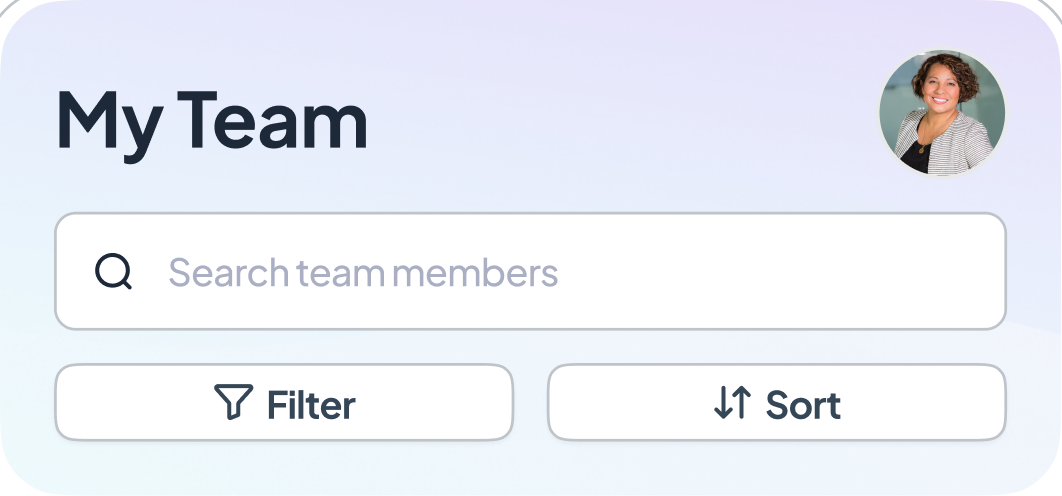
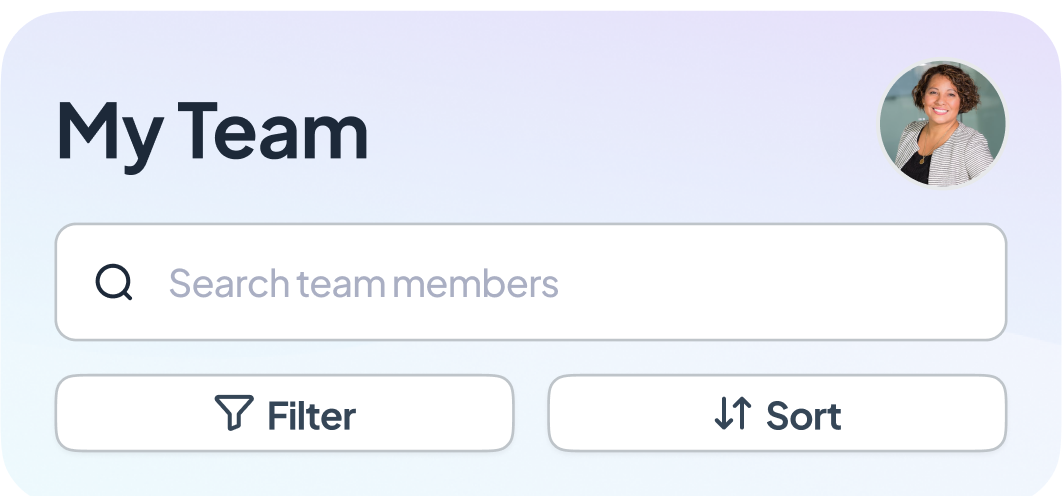
Refine advisor and team interactions

diff --git a/src/frames/Frame4Advisor.tsx b/src/frames/Frame4Advisor.tsx
@@ -9,7 +9,7 @@ import proAdvisor4 from "../assets/exports/pro-advisor-4.png";
 import bubbleImg from "../assets/exports/pro-advisor-2-bubble.png";
 import avatarImg from "../assets/exports/pro-advisor-2-avatar.png";
 
-type Beat = "container" | "avatar" | "bubble" | "thinking" | "response";
+type Beat = "container" | "avatar" | "userTyping" | "bubble" | "thinking" | "response";
 
 const WELCOME_TOP = 133;
 const WELCOME_HEIGHT = 202;
@@ -41,7 +41,8 @@ const SCROLL_UP = 205;
 // moves if this is retuned.
 const READ_WELCOME_MS = 4500;
 const BEATS = {
-  avatar: READ_WELCOME_MS,
+  avatar: READ_WELCOME_MS - 2000,
+  userTyping: READ_WELCOME_MS - 1500,
   bubble: READ_WELCOME_MS + 500,
   thinking: READ_WELCOME_MS + 1800,
   response: READ_WELCOME_MS + 2800,
@@ -91,9 +92,9 @@ const exitWith = (order: number) => ({
   delay: order * stagger.exitCascade,
 });
 
-// Frame 4 - the 7-beat sequence: container reveal -> avatar entrance ->
-// input field reveal (paired with the container) -> avatar entrance ->
-// conversation begins (typewriter via clip-path, no real text needed) ->
+// Frame 4 - the conversation sequence: container + input reveal -> early
+// avatar entrance -> user typing indicator -> conversation begins (typewriter
+// via clip-path, no real text needed) ->
 // AI thinking bubble -> response card (node 16182:4572,
 // "Pro Advisor 3") renders in where the thinking bubble was, in the gap
 // between the conversation and the input field. This is the stage-only
@@ -105,6 +106,7 @@ export function Frame4AdvisorStage({ exiting }: StageProps) {
   useEffect(() => {
     const timers = [
       setTimeout(() => setBeat("avatar"), BEATS.avatar),
+      setTimeout(() => setBeat("userTyping"), BEATS.userTyping),
       setTimeout(() => setBeat("bubble"), BEATS.bubble),
       setTimeout(() => setBeat("thinking"), BEATS.thinking),
       setTimeout(() => setBeat("response"), BEATS.response),
@@ -112,10 +114,11 @@ export function Frame4AdvisorStage({ exiting }: StageProps) {
     return () => timers.forEach(clearTimeout);
   }, []);
 
-  const order: Beat[] = ["container", "avatar", "bubble", "thinking", "response"];
+  const order: Beat[] = ["container", "avatar", "userTyping", "bubble", "thinking", "response"];
   const beatIndex = order.indexOf(beat);
   const avatarIn = beatIndex >= 1;
-  const bubbleIn = beatIndex >= 2;
+  const userTyping = beat === "userTyping";
+  const bubbleIn = beatIndex >= 3;
   const thinking = beat === "thinking";
   const responded = beat === "response";
   // Once the AI actually has something to say, the live conversation shifts
@@ -169,6 +172,19 @@ export function Frame4AdvisorStage({ exiting }: StageProps) {
           }}
         />
 
+        {/* The user arrives before their message. Reuse the same three-dot
+            loop as the AI thinking state, right-aligned beside the avatar,
+            until the full prompt bubble replaces it. */}
+        <AnimatePresence>
+          {userTyping && (
+            <TypingBubble
+              key="user-typing"
+              left={BUBBLE_LEFT + BUBBLE_WIDTH - 72}
+              top={PROMPT_TOP + 4}
+            />
+          )}
+        </AnimatePresence>
+
         {/* Beat 3: Conversation Begins — bubble expands, typewriter via clip-path reveal */}
         <motion.div
           initial={{ opacity: 0, scale: 0.9 }}
@@ -191,7 +207,7 @@ export function Frame4AdvisorStage({ exiting }: StageProps) {
             the same spot. This was previously missing entirely: the response
             asset was imported but never rendered. */}
         <AnimatePresence mode="wait">
-          {thinking && <ThinkingBubble key="thinking" />}
+          {thinking && <TypingBubble key="thinking" left={RESPONSE_BOX.left} top={RESPONSE_BOX.top} />}
           {responded && (
             <motion.img
               key="response"
@@ -246,7 +262,7 @@ export function Frame4AdvisorStage({ exiting }: StageProps) {
 // 350ms per step (a ~1050ms cycle), which overran the top of the range.
 const THINKING_STEP_MS = (delayToken.thinkingLoop * 1000) / 3;
 
-function ThinkingBubble() {
+function TypingBubble({ left, top }: { left: number; top: number }) {
   const [dots, setDots] = useState(1);
   useEffect(() => {
     const id = setInterval(() => setDots((d) => (d % 3) + 1), THINKING_STEP_MS);
@@ -260,8 +276,8 @@ function ThinkingBubble() {
       transition={{ duration: 0.3, ease: "easeOut" }}
       style={{
         position: "absolute",
-        left: RESPONSE_BOX.left,
-        top: RESPONSE_BOX.top,
+        left,
+        top,
         width: 72,
         height: 40,
         borderRadius: 20,

diff --git a/src/frames/Frame7MyTeam.tsx b/src/frames/Frame7MyTeam.tsx
@@ -2,6 +2,9 @@ import { useEffect } from "react";
 import { motion, useMotionValue, animate } from "motion/react";
 import { duration, easing, stagger } from "../motion/motion.tokens";
 import type { StageProps } from "../journey/stageProps";
+// Derived from the current my-team-card.png source with an exact pixel crop:
+// x:15, y:0, width:1062, height:496. Regenerate this asset whenever the main
+// card is replaced so the header cannot retain stale edge or corner pixels.
 import teamHeader from "../assets/exports/my-team-header.png";
 import rowThompson from "../assets/exports/my-team-row-thompson.png";
 import rowWilliams from "../assets/exports/my-team-row-williams.png";
@@ -27,20 +30,29 @@ const CARD_HEIGHT = 435;
 // bounce, then it slides down off-screen while fading "slightly" (so it is
 // still partly visible as it clears the bottom, rather than dissolving).
 export const MYTEAM_EXIT_MS = duration.exit * 1000;
-// The final entrance action is the middle row's automatic swipe reveal.
+const ROWS_SETTLED_MS = 500 + 2 * stagger.contactRow * 1000 + 500;
+const SWIPE_DURATION_MS = 350;
+const SWIPE_HOLD_MS = 2000;
+// The final entrance action is the middle row's automatic swipe reveal,
+// two-second hold, and return swipe that hides the action again.
 export const MYTEAM_ENTRANCE_MS =
-  500 + 2 * stagger.contactRow * 1000 + 500 + 350;
+  ROWS_SETTLED_MS + SWIPE_DURATION_MS + SWIPE_HOLD_MS + SWIPE_DURATION_MS;
 const EXIT_DROP = 560; // clears the stage's bottom clip at y=536 from top:145
 
 export function Frame7MyTeamStage({ exiting }: StageProps) {
   const rowX = useMotionValue(0);
 
   useEffect(() => {
-    const rowsEnteredAt = MYTEAM_ENTRANCE_MS - 350;
-    const t = setTimeout(() => {
+    const openTimer = setTimeout(() => {
       animate(rowX, OPEN_OFFSET, { duration: 0.35, ease: [0.16, 1, 0.3, 1] });
-    }, rowsEnteredAt);
-    return () => clearTimeout(t);
+    }, ROWS_SETTLED_MS);
+    const closeTimer = setTimeout(() => {
+      animate(rowX, 0, { duration: 0.35, ease: [0.16, 1, 0.3, 1] });
+    }, ROWS_SETTLED_MS + SWIPE_DURATION_MS + SWIPE_HOLD_MS);
+    return () => {
+      clearTimeout(openTimer);
+      clearTimeout(closeTimer);
+    };
   }, [rowX]);
 
   return (
